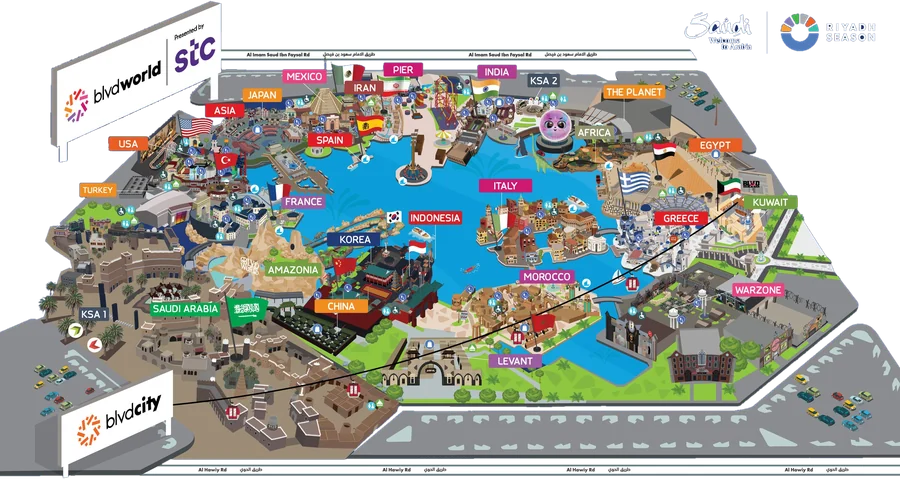
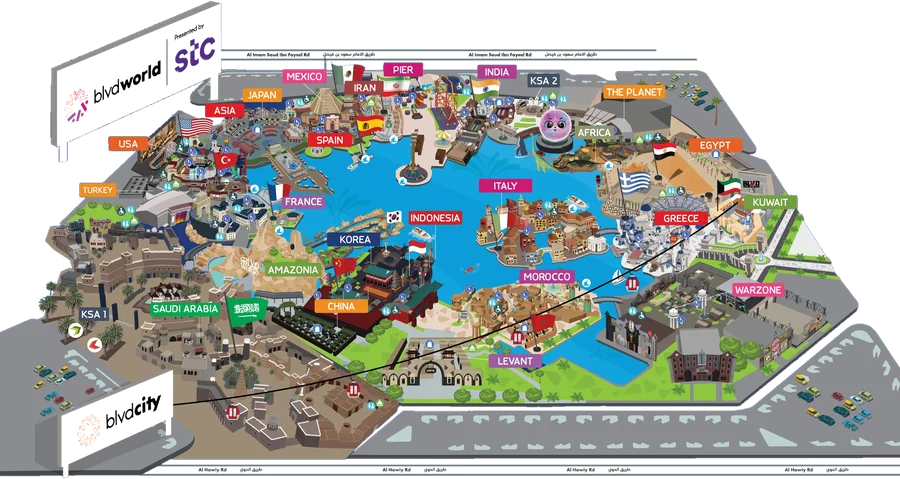
Retire the tray-and-plate frame; trim the map module
Unframed everywhere, as asked. Only two things in the site actually used the
nested tray-and-plate device, so this is smaller than it sounds — the package
cards and the shows table turned out to be single surfaces, not nested ones.

The gallery lightbox: the photograph is the object, and it has its own edges. A
frame around it was a second edge saying the same thing. It keeps a hairline, so a
dark photograph does not dissolve into the dimmed page, and the deep shadow that
gives it depth.

The cashless section: the card leads alone and the three moments follow on a rail.
Each moment is already a cell, so the container was a box drawn around three
boxes. The cells take the hero tiles' glass instead of the plate's fainter fill —
standing on the night rather than on a surface, they need a little more body — and
the card's magenta bloom moves onto the section. Two wrappers collapse into one.

The map module: the sponsor lockup is out of the artwork (see CREDITS.md — it
floats unattached to the park, so it came out precisely, 9,116 px, leaving the ring
road that runs through the same corner), and the map is smaller: 760px rather than
1080. It is a model of the park, not the map itself; the button opens the one you
can read. The section also holds a full stage and centres in it — at 653px it sat
at the top of one, which slid the divider under the fixed header and pulled the
next section's heading into view.
[…]

Changed region(s): [[0.7156, 0.0292, 0.9956, 0.1169], [0.0622, 0.8476, 0.1244, 0.9353], [0.0622, 0.1754, 0.0933, 0.2338]]

diff --git a/css/main.css b/css/main.css
@@ -2369,6 +2369,11 @@ html[data-hero="real"] .zc .zc-plate {
 .mapmod {
   position: relative; z-index: 11;
   padding: var(--sec-y) var(--sec-x);
+  /* The module is shorter than a stage, so without this it sat at the top of one:
+     the divider slid under the fixed header and the next section's heading came up
+     into view underneath. It holds a full stage and centres in it, like every
+     other section on the page. */
+  min-height: 100%; align-content: center;
   display: grid; justify-items: center; grid-template-columns: minmax(0, 1fr);
   gap: clamp(14px, 2.4vh, 30px);
 }
@@ -2388,7 +2393,9 @@ html[data-hero="real"] .zc .zc-plate {
 .mm-lead i:last-child { background: linear-gradient(90deg, rgba(199, 226, 255, .3), transparent); }
 
 .mm-art {
-  width: 100%; max-width: min(1080px, 88vw); line-height: 0;
+  /* smaller than the plate it used to sit in: it is a model of the park, not the
+     map itself — the button is what opens the one you can read */
+  width: 100%; max-width: min(760px, 72vw); line-height: 0;
   /* the island is a cut-out, so the shadow follows its silhouette rather than a
      box — this is what puts it above the night instead of on top of it */
   filter: drop-shadow(0 26px 46px rgba(2, 4, 16, .55));
@@ -2410,7 +2417,7 @@ html[data-hero="real"] .zc .zc-plate {
 
 @media (max-width: 700px) {
   .mapmod { gap: clamp(10px, 1.8vh, 18px); }
-  .mm-art { max-width: 96vw; filter: drop-shadow(0 14px 26px rgba(2, 4, 16, .5)); }
+  .mm-art { max-width: 92vw; filter: drop-shadow(0 14px 26px rgba(2, 4, 16, .5)); }
   .mm-count { font-size: 10px; }
   .mm-count b { font-size: 13px; }
 }
@@ -2424,41 +2431,27 @@ html[data-hero="real"] .zc .zc-plate {
 /* head above, the panel under it, the CTA below that */
 .cashless { gap: clamp(16px, 2.6vh, 32px); }
 
-/* ══ THE PANEL ══
-   A machined tray with a plate set into it — the same nested construction the
-   lightbox frame uses, so the two read as one system.
+/* ══ THE CARD, AND WHAT FOLLOWS IT ══
+   No tray and no plate. The card leads alone and the three moments follow it
+   across a rail underneath — each moment is a cell in its own right, so a
+   container around the set was a box drawn around three boxes.
 
-   The card leads, alone and centred, and the three moments follow it across a
-   rail underneath: one card, then what you do with it. Reading down beats reading
-   across for this, because the card is the subject and the steps are what happens
-   to it — set side by side they competed instead. */
-.cash-panel {
-  --tray: clamp(5px, .6vw, 9px);
-  --tray-r: clamp(20px, 2vw, 28px);
+   Reading down beats reading across here: the card is the subject and the steps
+   are what happens to it. Side by side they competed. */
+.cash-body {
   width: 100%; max-width: min(1020px, 100%); margin-inline: auto;
-  padding: var(--tray);
-  border-radius: var(--tray-r);
-  background: rgba(199, 226, 255, .05);
-  border: 1px solid rgba(199, 226, 255, .14);
-  box-shadow: 0 30px 80px rgba(2, 4, 16, .46);
-}
-.cash-inner {
-  border-radius: calc(var(--tray-r) - var(--tray));
-  background: linear-gradient(168deg, rgba(16, 24, 60, .72), rgba(6, 10, 30, .9));
-  box-shadow: inset 0 1px 0 rgba(255, 255, 255, .1);
-  padding: clamp(18px, 2.4vw, 32px) clamp(16px, 2.4vw, 34px) clamp(18px, 2.2vw, 30px);
   display: grid; justify-items: center; gap: clamp(16px, 2.4vh, 30px);
-  position: relative; overflow: hidden;
+  position: relative;
 }
-/* a bloom under the card, so it sits on the plate rather than floating over it */
-.cash-inner::before {
-  content: ''; position: absolute; left: 50%; top: 0; z-index: 0;
-  width: min(560px, 80%); height: 58%; transform: translateX(-50%);
+/* a bloom behind the card, so it reads as lit rather than pasted on the night */
+.cash-body::before {
+  content: ''; position: absolute; left: 50%; top: -6%; z-index: 0;
+  width: min(560px, 80%); height: 52%; transform: translateX(-50%);
   border-radius: 50%; pointer-events: none;
-  background: radial-gradient(50% 50% at 50% 50%, rgba(209, 0, 119, .28), transparent 72%);
-  filter: blur(30px);
+  background: radial-gradient(50% 50% at 50% 50%, rgba(209, 0, 119, .26), transparent 72%);
+  filter: blur(34px);
 }
-.cash-inner > * { position: relative; z-index: 1; }
+.cash-body > * { position: relative; z-index: 1; }
 
 /* ══ THE THREE MOMENTS ══
    Three cells across a rail, each set into the plate the way the plate is set into
@@ -2484,21 +2477,24 @@ html[data-hero="real"] .zc .zc-plate {
   position: relative;
   padding: clamp(22px, 2.4vw, 30px) clamp(14px, 1.6vw, 20px) clamp(15px, 1.8vw, 20px);
   border-radius: clamp(14px, 1.4vw, 20px);
-  background: linear-gradient(170deg, rgba(199, 226, 255, .07), rgba(199, 226, 255, .022));
+  /* standing on the night rather than on a plate, a cell needs a little more of
+     its own body — the same glass the hero tiles are built from */
+  background: linear-gradient(170deg, rgba(199, 226, 255, .1), rgba(199, 226, 255, .04));
   box-shadow:
-    inset 0 0 0 1px rgba(199, 226, 255, .12),
-    inset 0 1px 0 rgba(255, 255, 255, .08);
+    inset 0 0 0 1px rgba(199, 226, 255, .16),
+    inset 0 1px 0 rgba(255, 255, 255, .1),
+    0 12px 30px rgba(2, 4, 16, .3);
   display: grid; gap: 7px; align-content: start;
   transition: box-shadow .45s var(--ease), background .45s var(--ease),
               transform .45s var(--ease);
 }
 .cash-steps li:hover {
   transform: translateY(-2px);
-  background: linear-gradient(170deg, rgba(199, 226, 255, .1), rgba(199, 226, 255, .04));
+  background: linear-gradient(170deg, rgba(199, 226, 255, .14), rgba(199, 226, 255, .06));
   box-shadow:
-    inset 0 0 0 1px rgba(199, 226, 255, .2),
-    inset 0 1px 0 rgba(255, 255, 255, .12),
-    0 14px 34px rgba(2, 4, 16, .34);
+    inset 0 0 0 1px rgba(199, 226, 255, .24),
+    inset 0 1px 0 rgba(255, 255, 255, .14),
+    0 18px 40px rgba(2, 4, 16, .38);
 }
 /* the numeral sits on the rail, half in the cell and half out of it */
 .cs-num {
@@ -2507,8 +2503,8 @@ html[data-hero="real"] .zc .zc-plate {
   display: grid; place-items: center;
   min-width: 30px; height: 22px; padding: 0 9px;
   border-radius: var(--r-pill);
-  background: #0b1230;
-  box-shadow: inset 0 0 0 1px rgba(255, 194, 77, .42);
+  background: #080d24;
+  box-shadow: inset 0 0 0 1px rgba(255, 194, 77, .42), 0 2px 8px rgba(2, 4, 16, .5);
   font-family: var(--fig); font-size: 10.5px; font-weight: 700; letter-spacing: .1em;
   color: var(--gold); font-variant-numeric: tabular-nums;
 }
@@ -2723,7 +2719,7 @@ html[data-hero="real"] .zc .zc-plate {
 @media (max-width: 700px) {
   .blvd-card { width: min(276px, 100%); }
   .cashless { gap: clamp(10px, 1.6vh, 18px); }
-  .cash-inner { padding: 14px 14px 15px; gap: 14px; }
+  .cash-body { gap: 14px; }
 }
 @media (prefers-reduced-motion: reduce) { .blvd-card { animation: none; } }
 
@@ -3498,7 +3494,6 @@ body.route-experiences
   .sch-shot { width: 66px; }
   /* the card comes in on a short stage; the statement sets its own rhythm */
   .blvd-card { transform: scale(.88); }
-  .cash-inner { padding: clamp(14px, 1.8vw, 24px); }
   .cash-steps li { padding-block: clamp(18px, 2vw, 24px) clamp(12px, 1.4vw, 16px); }
   /* the zone ring */
   .cf { --cf-card: clamp(150px, 19vw, 232px) !important; }
@@ -3794,22 +3789,18 @@ html.has-cursor input *, html.has-cursor textarea * { cursor: text; }
 }
 .lbx.on .lbx-stage { opacity: 1; transform: none; filter: none; }
 
-/* outer tray */
-.lbx-frame {
-  --tray: clamp(6px, .7vw, 11px);
-  --tray-r: clamp(20px, 2vw, 30px);
-  max-width: 100%; min-width: 0;
-  padding: var(--tray); border-radius: var(--tray-r);
-  background: rgba(199, 226, 255, .06);
-  border: 1px solid rgba(199, 226, 255, .17);
-  box-shadow: 0 40px 120px rgba(0, 0, 0, .6);
-}
-/* inner plate, its radius stepped in by the tray's own padding */
+/* No tray. The photograph is the object here — it has its own edges, and a frame
+   around it was a second edge saying the same thing. What it needs is depth
+   against the dimmed page, which is the shadow's job, and a hairline so a dark
+   photograph does not dissolve into the backdrop. */
+.lbx-frame { max-width: 100%; min-width: 0; }
 .lbx-shot {
   margin: 0; overflow: hidden; line-height: 0;
-  border-radius: calc(var(--tray-r) - var(--tray));
+  border-radius: clamp(14px, 1.4vw, 20px);
   background: #05060f;
-  box-shadow: inset 0 1px 1px rgba(255, 255, 255, .14);
+  box-shadow:
+    inset 0 0 0 1px rgba(199, 226, 255, .14),
+    0 40px 120px rgba(0, 0, 0, .6);
 }
 .lbx-shot img {
   display: block; max-width: 100%;

diff --git a/index.html b/index.html
@@ -10,7 +10,7 @@
      It is variable on optical size, width and weight (400..800), so each role takes a
      different cut of the same face. Instrument Sans is the fallback only. -->
 <link href="https://fonts.googleapis.com/css2?family=Bricolage+Grotesque:opsz,wdth,wght@12..96,75..100,400..800&family=Instrument+Sans:wght@400;500;600;700&display=swap" rel="stylesheet" />
-<link rel="stylesheet" href="css/main.css?v=585" />
+<link rel="stylesheet" href="css/main.css?v=589" />
 </head>
 <body class="typo-body">
 
@@ -62,7 +62,7 @@
              aria-hidden="true" tabindex="-1"></video>
       <div class="hero-ui">
         <!-- the mark, in white, above the arch — every version carries it -->
-        <img class="hero-logo" src="img/blvd-world-mark.svg?v=585" alt="BLVD World" />
+        <img class="hero-logo" src="img/blvd-world-mark.svg?v=589" alt="BLVD World" />
         <!-- the title is set on two arcs, doming the way a gate arches over an
              entrance -->
         <h1 class="hero-title arch" id="hero-title">
@@ -184,11 +184,10 @@
         </div>
       </div>
 
+      <!-- the map link went with it: the section right below is the map, and it
+           carries its own way in -->
       <div class="ride-cta reveal">
-        <a href="#/map" class="pill light big-pill">
-          Explore map
-        </a>
-        <a href="#/shows" class="pill ghost big-pill">
+        <a href="#/shows" class="pill light big-pill">
           Live shows
         </a>
       </div>
@@ -214,7 +213,7 @@
       <div class="mm-art reveal">
         <img src="img/map/park-map-cut.webp"
              srcset="img/map/park-map-cut-sm.webp 900w, img/map/park-map-cut.webp 1600w"
-             sizes="(max-width: 700px) 92vw, min(1080px, 88vw)"
+             sizes="(max-width: 700px) 92vw, min(760px, 72vw)"
              alt="The BLVD World park map: twenty-four zones around the lake, with both gates"
              width="1600" height="852" draggable="false" />
       </div>
@@ -280,40 +279,38 @@
       </div>
 
       <!-- The card leads and the three moments follow it, on a rail: one card,
-           then what you do with it. The plate is the same machined tray the
-           lightbox frame uses, and each moment is a cell set into it. -->
-      <div class="cash-panel reveal">
-        <div class="cash-inner">
-          <!-- tilts to the pointer, layers lift on Z (js/cashless.js) -->
-          <div class="card-stage" id="card-stage">
-            <!-- the card artwork as supplied, used as-is: the wordmark, the
-                 issuer lockup, the field, the rides and cash figures and the tap
-                 mark are all in the image. Only the tilt and the glare are ours. -->
-            <div class="blvd-card is-art" id="blvd-card">
-              <img src="img/blvd-card.png" alt="BLVD World card &#8212; 10 rides, SAR 100"
-                   width="342" height="216" draggable="false" />
-              <i class="bc-glare" aria-hidden="true"></i>
-            </div>
+           then what you do with it. No container around the set — each moment is
+           already a cell, and a box drawn around three boxes says nothing. -->
+      <div class="cash-body reveal">
+        <!-- tilts to the pointer, layers lift on Z (js/cashless.js) -->
+        <div class="card-stage" id="card-stage">
+          <!-- the card artwork as supplied, used as-is: the wordmark, the
+               issuer lockup, the field, the rides and cash figures and the tap
+               mark are all in the image. Only the tilt and the glare are ours. -->
+          <div class="blvd-card is-art" id="blvd-card">
+            <img src="img/blvd-card.png" alt="BLVD World card &#8212; 10 rides, SAR 100"
+                 width="342" height="216" draggable="false" />
+            <i class="bc-glare" aria-hidden="true"></i>
           </div>
-
-          <ol class="cash-steps">
-            <li>
-              <span class="cs-num">01</span>
-              <b class="cs-do">Book any ticket</b>
-              <span class="cs-say">Entry, entry + experience or a ride package &#8212; the card is yours at the gate</span>
-            </li>
-            <li>
-              <span class="cs-num">02</span>
-              <b class="cs-do">Top up in the app</b>
-              <span class="cs-say">Before you arrive, or from anywhere in BLVD World, as often as you like</span>
-            </li>
-            <li>
-              <span class="cs-num">03</span>
-              <b class="cs-do">Tap and play</b>
-              <span class="cs-say">One tap at every ride and skill game &#8212; the balance follows you all night</span>
-            </li>
-          </ol>
         </div>
+
+        <ol class="cash-steps">
+          <li>
+            <span class="cs-num">01</span>
+            <b class="cs-do">Book any ticket</b>
+            <span class="cs-say">Entry, entry + experience or a ride package &#8212; the card is yours at the gate</span>
+          </li>
+          <li>
+            <span class="cs-num">02</span>
+            <b class="cs-do">Top up in the app</b>
+            <span class="cs-say">Before you arrive, or from anywhere in BLVD World, as often as you like</span>
+          </li>
+          <li>
+            <span class="cs-num">03</span>
+            <b class="cs-do">Tap and play</b>
+            <span class="cs-say">One tap at every ride and skill game &#8212; the balance follows you all night</span>
+          </li>
+        </ol>
       </div>
 
       <div class="cash-go reveal">
@@ -808,27 +805,27 @@
 
 
   <!-- menu overlay -->
-  <script src="js/data.js?v=585"></script>
-  <script src="js/borders.js?v=585"></script>
-  <script src="js/scene.js?v=585"></script>
-  <script src="js/app.js?v=585"></script>
-  <script src="js/experiences.js?v=585"></script>
-  <script src="js/carousels.js?v=585"></script>
-  <script src="js/coverflow.js?v=585"></script>
-  <script src="js/zones.js?v=585"></script>
-  <script src="js/fan.js?v=585"></script>
-  <script src="js/gallery.js?v=585"></script>
-  <script src="js/parkmap.js?v=585"></script>
-  <script src="js/minimap.js?v=585"></script>
-  <script src="js/sponsors.js?v=585"></script>
-  <script src="js/cashless.js?v=585"></script>
-  <script src="js/headings.js?v=585"></script>
-  <script src="js/bundles.js?v=585"></script>
-  <script src="js/ridex.js?v=585"></script>
-  <script src="js/cursor.js?v=585"></script>
-  <script src="js/glass.js?v=585" defer></script>
+  <script src="js/data.js?v=589"></script>
+  <script src="js/borders.js?v=589"></script>
+  <script src="js/scene.js?v=589"></script>
+  <script src="js/app.js?v=589"></script>
+  <script src="js/experiences.js?v=589"></script>
+  <script src="js/carousels.js?v=589"></script>
+  <script src="js/coverflow.js?v=589"></script>
+  <script src="js/zones.js?v=589"></script>
+  <script src="js/fan.js?v=589"></script>
+  <script src="js/gallery.js?v=589"></script>
+  <script src="js/parkmap.js?v=589"></script>
+  <script src="js/minimap.js?v=589"></script>
+  <script src="js/sponsors.js?v=589"></script>
+  <script src="js/cashless.js?v=589"></script>
+  <script src="js/headings.js?v=589"></script>
+  <script src="js/bundles.js?v=589"></script>
+  <script src="js/ridex.js?v=589"></script>
+  <script src="js/cursor.js?v=589"></script>
+  <script src="js/glass.js?v=589" defer></script>
   <!-- js/globe.js is not loaded here: heroes.js imports it the first time someone
        actually picks the globe version, so three.js is never fetched otherwise -->
-  <script src="js/heroes.js?v=585" defer></script>
+  <script src="js/heroes.js?v=589" defer></script>
 </body>
 </html>

diff --git a/CREDITS.md b/CREDITS.md
@@ -196,6 +196,12 @@ navy *inside* the artwork — the two KSA gate labels, the dark roofs in Korea a
 China, the signage. The alpha is feathered by a 0.9px blur so the silhouette is
 not a staircase, and the result is cropped to its own bounding box.
 
+The sponsor lockup in the top-right corner — "Saudi, Welcome to Arabia" and the
+Riyadh Season mark — is removed as well, on request. It floats in the surround
+unattached to the park, so it could be taken out precisely: everything in that
+corner that is not part of the island component, 9,116 pixels. The ring road runs
+through the same corner and is part of the island, so it is untouched.
+
 Nothing was added, moved or retouched. Both signs (blvdworld + stc, blvdcity),
-the Riyadh Season lockup, all 26 printed labels and the ring road survive
-unchanged. Same clearance question as the rest of the client's artwork.
+all 26 printed labels and the ring road survive unchanged. Same clearance
+question as the rest of the client's artwork.
